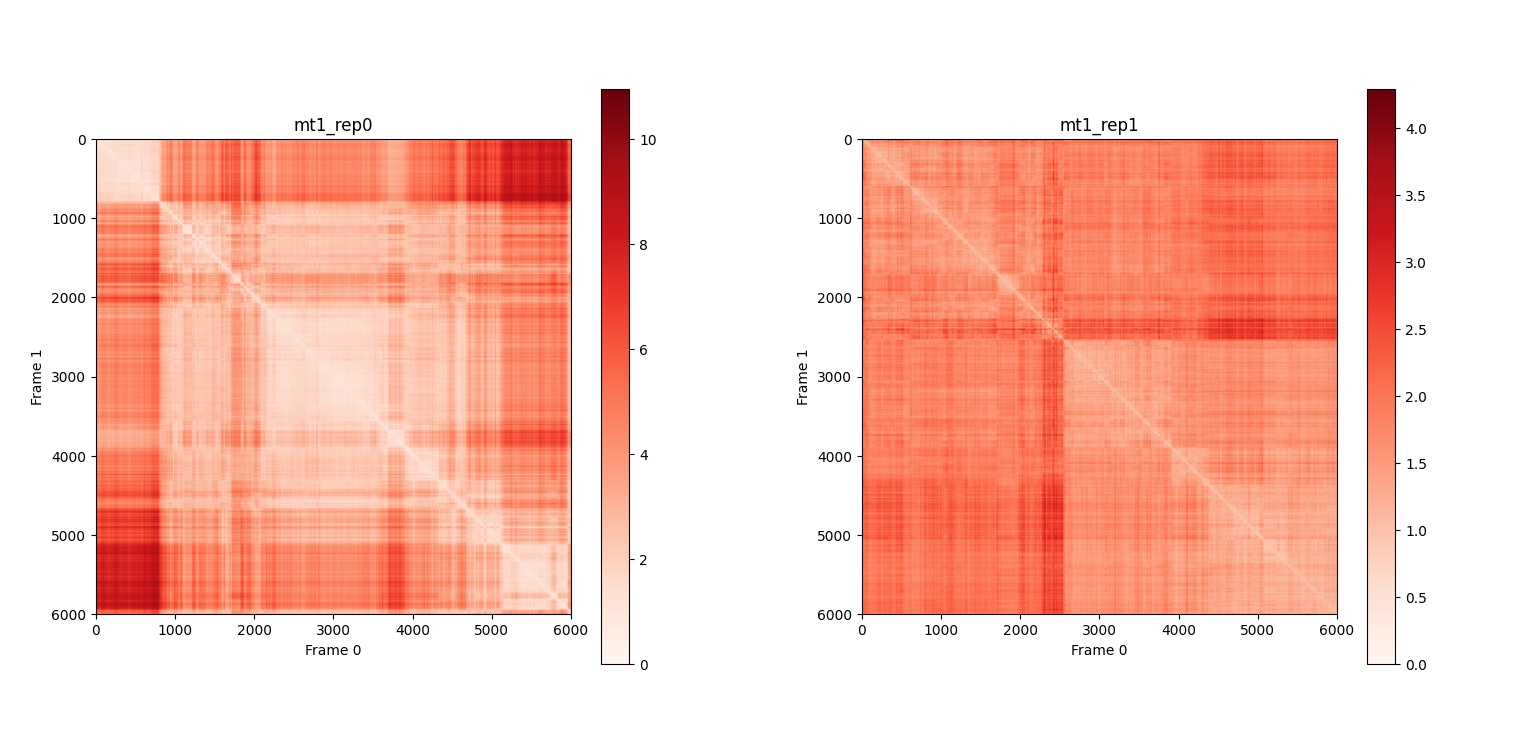
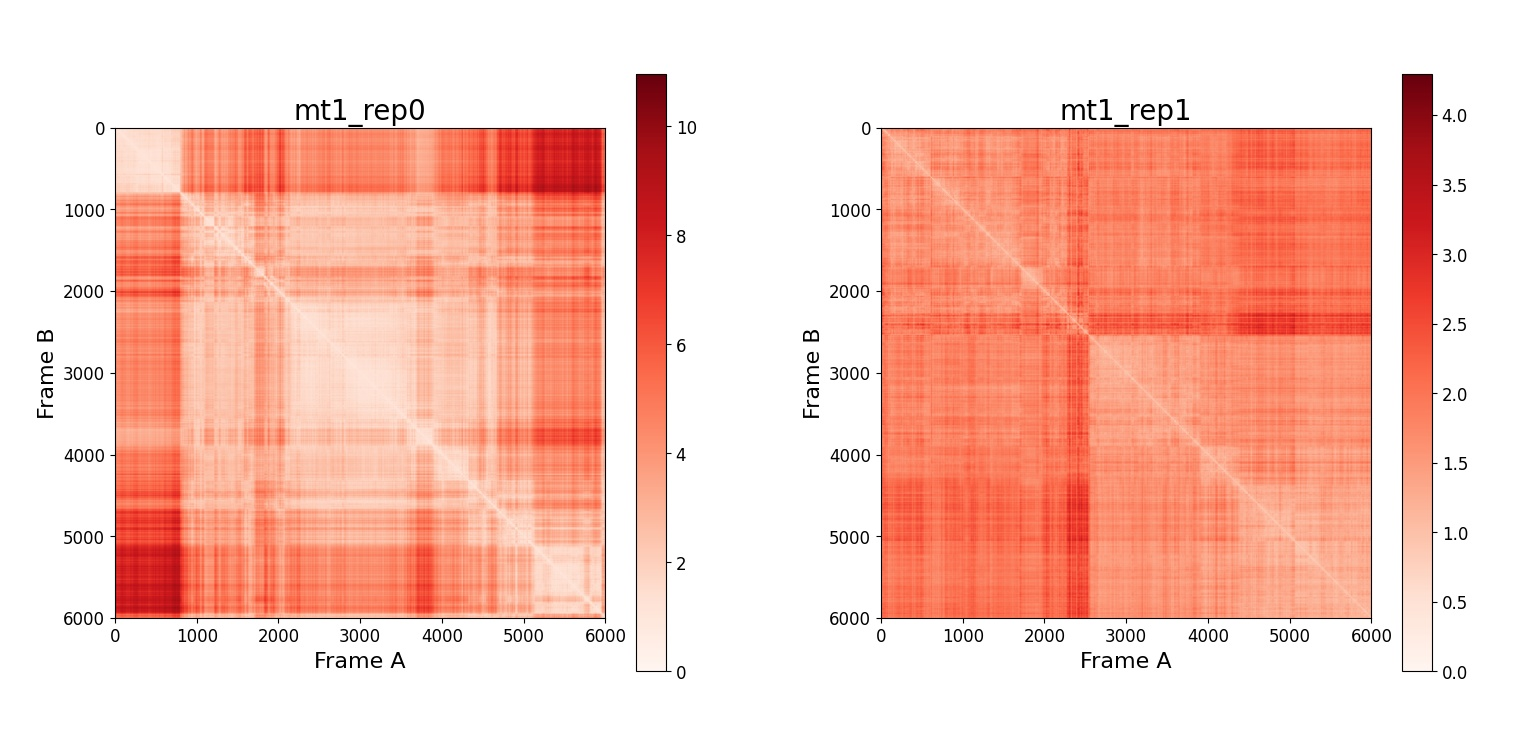
All (still) RMSD images uploaded

Changed region(s): [[0.0, 0.0925, 0.4602, 0.8941], [0.5215, 0.0925, 0.951, 0.9249]]

diff --git a/src_analysis/RMSD_visualize.py b/src_analysis/RMSD_visualize.py
@@ -8,25 +8,25 @@ from matplotlib.pyplot import cm
 # //////////////////////////////////////////////////////////////////////////////
 class RMSDPlotter:
     def __init__(self, rmsd_mat, title = ''):
-        print(f">>> Loading RMSD data...")
+        print(f">>> Plotting RMSD for '{title}'...")
         self.rmsd_mat = rmsd_mat
 
+        self.fig, self.ax = plt.subplots()
+        self.ax.set_title(title, fontdict = dict(fontsize = 20))
 
 # ++++++++++++++++++++++++++++++++++++++++++++++++++++++++++++++++++++++++++++++
 class RMSD_2D(RMSDPlotter):
     def __init__(self, rmsd_mat, title = ''):
-        super().__init__(rmsd_mat, title = '')
-        self.fig, self.ax = plt.subplots()
+        super().__init__(rmsd_mat, title)
 
-        self.ax.set_title(title)
-        self.ax.set_xlabel("Frame 0")
-        self.ax.set_ylabel("Frame 1")
+        self.fig.subplots_adjust(bottom = 0.1, top = 0.9, left = 0.15, right = 0.95)
+        self.ax.set_xlabel("Frame A", fontdict = dict(fontsize = 16))
+        self.ax.set_ylabel("Frame B", fontdict = dict(fontsize = 16))
 
-        self.fig.colorbar(
-            self.ax.imshow(self.rmsd_mat,
-            # vmax = 5, 
-            cmap = "Reds")
-        )
+        colorbar = self.fig.colorbar( self.ax.imshow(self.rmsd_mat, cmap = "Reds") )
+
+        self.ax.tick_params(labelsize = 12)
+        colorbar.ax.tick_params(labelsize = 12)
 
 
 # ++++++++++++++++++++++++++++++++++++++++++++++++++++++++++++++++++++++++++++++
@@ -34,17 +34,15 @@ class RMSD_1D(RMSDPlotter):
     init_ref_frame = 0
 
     def __init__(self, rmsd_mat, title = ''):
-        super().__init__(rmsd_mat, title = '')
+        super().__init__(rmsd_mat, title)
 
         self.x = np.arange(self.rmsd_mat.shape[0])
         self.colors = np.zeros((self.rmsd_mat.shape[0], 4))
 
-        self.fig, self.ax = plt.subplots()
         self.fig.subplots_adjust(bottom = 0.25, top = 0.9)
-
-        self.ax.set_title(title)
-        self.ax.set_xlabel("Frame")
-        self.ax.set_ylabel("RMSD")
+        self.ax.set_xlabel("Frame", fontdict = dict(fontsize = 16))
+        self.ax.set_ylabel("RMSD", fontdict = dict(fontsize = 16))
+        self.ax.tick_params(labelsize = 12)
 
         self.init_gui()
 
@@ -161,7 +159,7 @@ class RMSD_1D_Clustering(RMSD_1D):
 
         self.set_cluster_colors(self.init_clustering_t)
 
-        super().__init__(rmsd_mat, title = '')
+        super().__init__(rmsd_mat, title)
 
     # --------------------------------------------------------------------------
     def init_gui(self):
@@ -222,9 +220,8 @@ class RMSD_1D_Compare(RMSD_1D):
         self.rmsd_arr1 = self.rmsd_mat1[ref_frame]
 
     def init_plot(self):
-        half_red = 1, 0, 0, 0.5
         self.line_rmsd0 = self.ax.scatter(self.x, self.rmsd_arr, color = BLUE, marker = '+', s = 12)
-        self.line_rmsd1 = self.ax.scatter(self.x, self.rmsd_arr1, color = half_red, marker = 'x', s = 12)
+        self.line_rmsd1 = self.ax.scatter(self.x, self.rmsd_arr1, color = HALF_RED, marker = 'x', s = 12)
 
     def update_line_rmsd(self):
         self.line_rmsd0.set_offsets(
@@ -241,16 +238,13 @@ class RMSD_1D_Compare(RMSD_1D):
 
 
 if __name__ == "__main__":
-
     # COLOR_MAP = "rainbow"
     # COLOR_MAP = "prism"
     COLOR_MAP = "hsv"
 
     rmsds = []
 
-
     ############################################################################
-
     for run_preffix in RUN_PREFFIXES:
         run0 = run_preffix + "_rep0"
         run1 = run_preffix + "_rep1"
@@ -260,9 +254,9 @@ if __name__ == "__main__":
         rmsd_mat0 = np.load(PATH_RMSD0)
         rmsd_mat1 = np.load(PATH_RMSD1)
 
-        # rmsds.append(RMSD_1D_Compare(rmsd_mat0, rmsd_mat1, title = run_preffix))
-        rmsds.append(RMSD_2D(rmsd_mat0, title = run0))
-        rmsds.append(RMSD_2D(rmsd_mat1, title = run1))
+        # rmsds.append(RMSD_2D(rmsd_mat0, title = run0))
+        # rmsds.append(RMSD_2D(rmsd_mat1, title = run1))
+        rmsds.append(RMSD_1D_Compare(rmsd_mat0, rmsd_mat1, title = run_preffix))
 
 
     ############################################################################

diff --git a/src_analysis/parameters.py b/src_analysis/parameters.py
@@ -41,6 +41,7 @@ PATH_WAD_INFO = DIR_DA_WAD / f"{WAD_NAME}-info.json"
 RED   = 1, 0, 0, 1
 GREEN = 0, 1, 0, 1
 BLUE  = 0, 0, 1, 1
+HALF_RED = 1, 0, 0, 0.5
 
 ####################################### CLASSES
 
@@ -66,23 +67,41 @@ class Info:
         print(f"--- Updated '{self.path.name}' with {len(data)} parameters.")
 
 # //////////////////////////////////////////////////////////////////////////////
+"""
+    =====================
+    NOTES AND EXTRA STUFF
+    =====================
+    sasa --> "solvent accesible surface area"
+    vmd --> extensions --> volmap tool
 
+    8f - 7f
+    8h - 7h
+    8f - 8h*2
+    7f - 7h*2
 
-######### check "solvent accesible surface area"
+    source pyinteraph_venv/bin/activate
+    cd /media/sf_CulebraBox/NDProjects/temp_project/8DFN_full/pyinteraph
+    pyinteraph -s md_plain.tpr -t md-rottrans.xtc -r md.gro --sb-co 5 -b --sb-graph sb-graph.dat --ff-masses charmm27 -v --sb-cg-file charged_groups.ini
 
-# extensions --> volmap tool
+    ++++++++++++++++++++++++++++++++++++++
+    wt = 7SI9
+    mt = 8DFN
 
-# 8f - 7f
-# 8h - 7h
-# 8f - 8h*2
-# 7f - 7h*2
+    ACTIVE SITE: 41, 145
+    MUTATION: 164 (wt = H, mt = N)
 
-# source pyinteraph_venv/bin/activate
-# cd /media/sf_CulebraBox/NDProjects/temp_project/8DFN_full/pyinteraph
-# pyinteraph -s md_plain.tpr -t md-rottrans.xtc -r md.gro --sb-co 5 -b --sb-graph sb-graph.dat --ff-masses charmm27 -v --sb-cg-file charged_groups.ini
+    ++++++++++++++++++++++++++++++++++++++
+    mt1
+    mt2
+    wt1
+    wt2
 
-# wt = 7SI9
-# mt = 8DFN
-
-# ACTIVE SITE: 41, 145
-# MUTATION: 164 (wt = H, mt = N)
+    mt1_rep0
+    mt1_rep1
+    mt2_rep0
+    mt2_rep1
+    wt1_rep0
+    wt1_rep1
+    wt2_rep0
+    wt2_rep1
+"""
